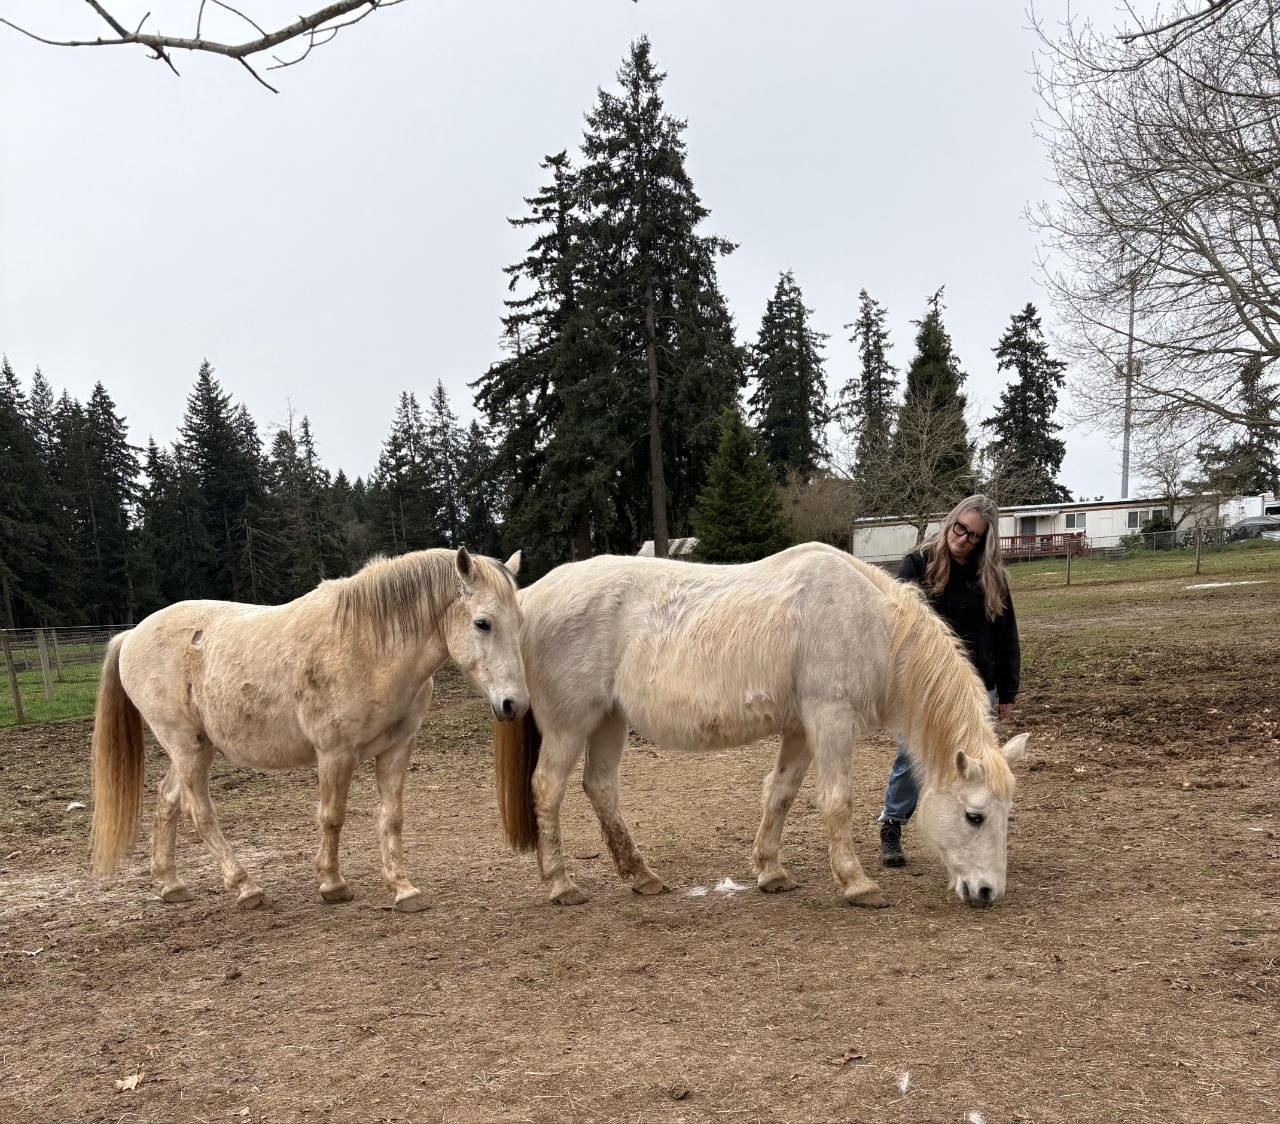
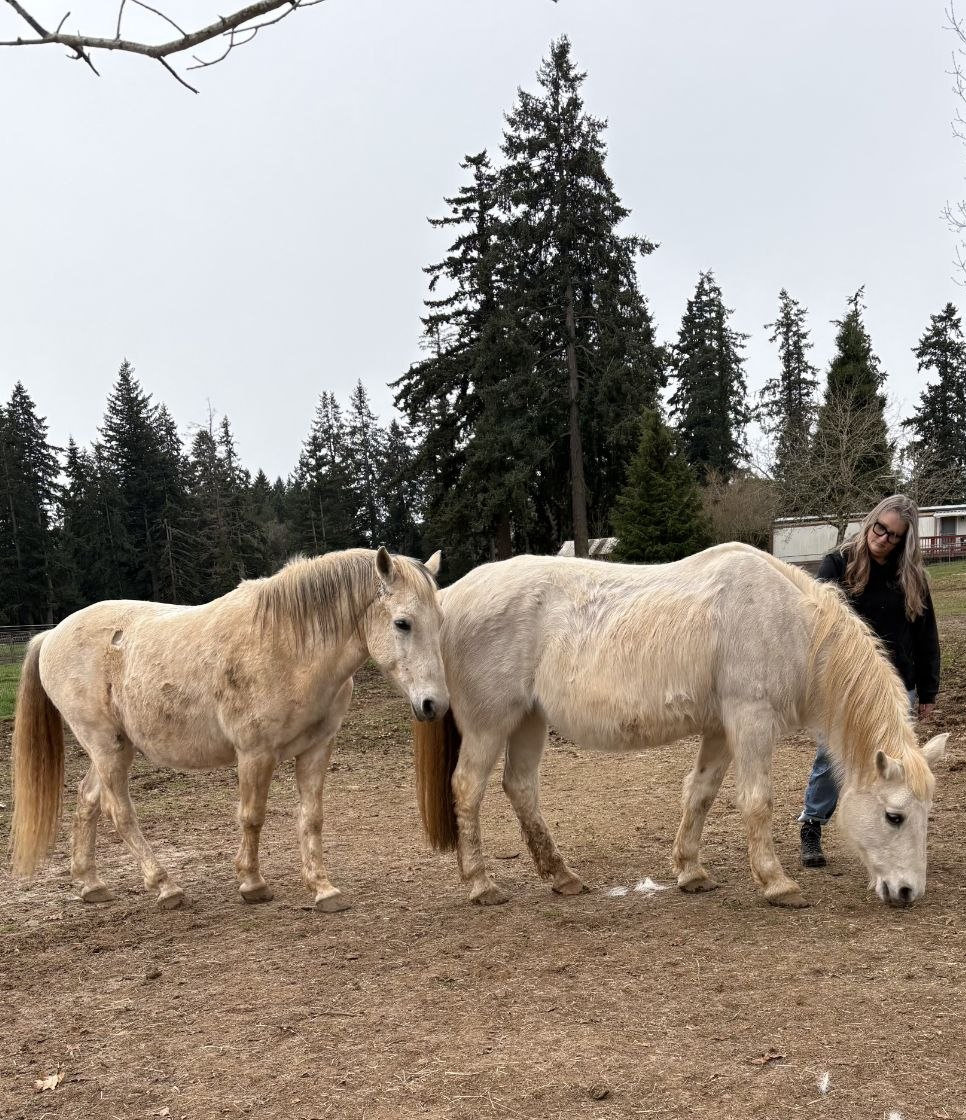
client changes

diff --git a/lc4lc/app/page.tsx b/lc4lc/app/page.tsx
@@ -116,7 +116,7 @@ export default function Home() {
             <h4 className="text-2xl md:max-w-3/4 md:text-4xl font-semibold tracking-tight text-center text-black text-shadow-lg p-5 md:p-10">
               Equus Coaching is a Powerful Tool for Everyone
             </h4>
-            <div className="md:max-w-3/4 md:grid grid-cols-2 gap-x-10 justify-items-center p-5">
+            <div className="md:max-w-3/4 md:grid grid-cols-2 gap-x-10 justify-items-center p-5 pb-15">
               <div className="order-1">
                 <p className="text-lg md:text-2xl text-zinc-600 text-shadow-lg">
                 By partnering with an equine co-coach, equus coaching offers unique benefits and profound, visceral insights into the self.
@@ -131,7 +131,7 @@ export default function Home() {
                 <Image className=""
                   src="/photo_2026-06-29_20-12-26.jpg"
                   width={400}
-                  height={650}
+                  height={500}
                   alt="A client with 2 equine co-coaches."
                 />
               </div>
@@ -147,9 +147,8 @@ export default function Home() {
               </div>
               <div className="order-2">
                 <p className="text-lg md:text-2xl text-zinc-600 text-shadow-lg">
-                By partnering with an equine co-coach, equus coaching offers unique benefits and profound, visceral insights into the self.
-                Horses are naturally sensitive and intuitive; they improve your understanding of your inner-dialogue and can help you pinpoint and understand roadblocks.
-                This experiential tool helps you move past internal conflict and develop your own personal flow.
+                At Get Er Done With Joy Equus Coaching, Lori taps into the playful and simple nature of horses to help you move towards a more rewarding life. 
+                The profound and truthful nature of horses helps you explore what you want out of your life, career, and relationships.
                 <br></br><br></br>
                 At Get Er Done With Joy Equus Coaching, Lori taps into the playful and simple nature of horses to help you move towards a more rewarding life. 
                 The profound and truthful nature of horses helps you explore what you want out of your life, career, and relationships.